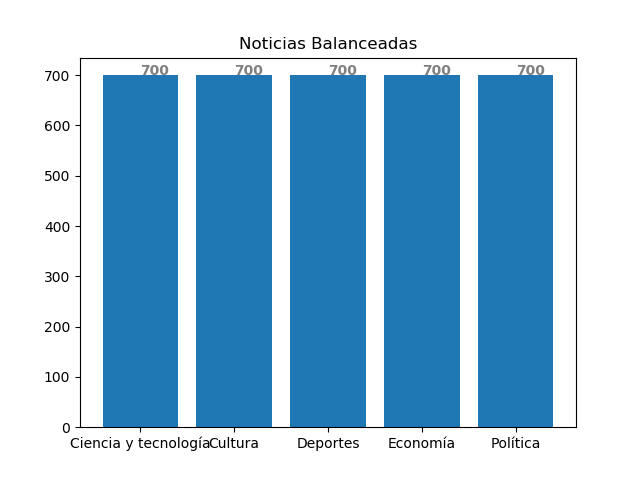
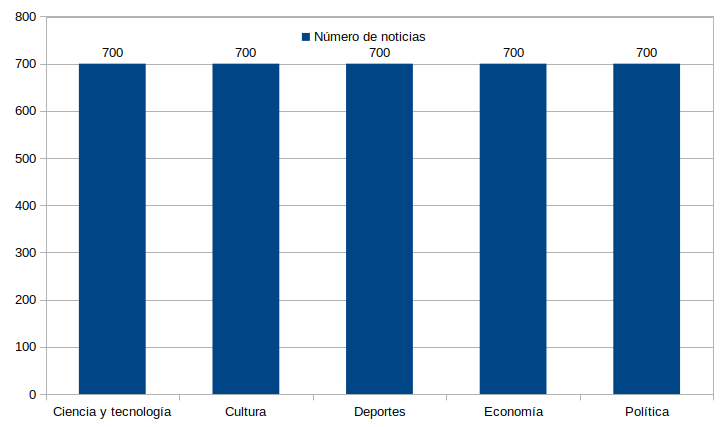
Correción de capítulos

diff --git a/Analisis/DocumentoAnalisis/Capitulos/Capitulo5-ImplementacionPruebas/1.Proceso-Recoleccion.tex b/Analisis/DocumentoAnalisis/Capitulos/Capitulo5-ImplementacionPruebas/1.Proceso-Recoleccion.tex
@@ -12,20 +12,39 @@ El proceso de recolección es parte fundamental del presente trabajo terminal, y
 \end{figure}
 
 \subsection{Selección de sitios web}
-
-El sitio web El Economista\footnote{https://www.eleconomista.com.mx/} contiene una sección llamada 
-\textbf{Ranking de Medios Nativos Digitales}\footnote{https://www.eleconomista.com.mx/Ranking-de-Medios-Nativos-Digitales}, el cual muestra las estadísticas que realiza mes con mes acerca de los sitios de noticias web más consultados como se muestra en la Figura \ref{fig:rank}\\
+\Tlabel{cp5:sitiosWeb}
+\textit{Reuters Institute}\footnote{https://reutersinstitute.politics.ox.ac.uk/} realizó un informe anual para el comprender como se consumen las noticias en distintos países, mediante el sitio \textit{YouGov}\footnote{https://mx.yougov.com/} se realizó la investigación utilizando cuestionarios en línea durante finales de enero y principios de febrero del año 2019. El informe reporto el índice de confianza que tienen los usuarios sobre los sitios noticiosos, la Figura \ref{fig:nivConfianza} muestra los sitios que tienen un mayor índice de confianza en una escala de 0 a 10.  
 
 \begin{figure}[H]
   \centering
-  \includegraphics[scale=.32]{imagenes/Capitulo5/ranking.png}
+  \includegraphics[scale=.35]{imagenes/Capitulo5/nivelConfianza.png}
+  \caption{Nivel de confianza de usuarios al consultar un sitio web.}
+  \label{fig:nivConfianza}
+\end{figure}
+
+El sitio web El Economista\footnote{https://www.eleconomista.com.mx/} contiene una sección llamada \textbf{Ranking de Medios Nativos Digitales}\footnote{https://www.eleconomista.com.mx/Ranking-de-Medios-Nativos-Digitales}, el cual muestra las estadísticas que realiza mes con mes acerca de los sitios de noticias web más consultados como se muestra en la Figura \ref{fig:rank}\\
+
+\begin{figure}[H]
+  \centering
+  \includegraphics[scale=.28]{imagenes/Capitulo5/ranking.png}
   \caption{Ranking de sitios de noticias del periódo de enero del 2018 a enero del 2019.}
   \label{fig:rank}
 \end{figure}
 
+La compañía \textit{comScore}\footnote{https://www.comscore.com/} dedicada a proporcionar datos de marketing en Internet, en el año 2018 realizó un estudio en el cual indica los sitios web de noticias más visitados, los resultados se muestran en la Figura \ref{fig:comScore}
+
+\begin{figure}[H]
+  \centering
+  \includegraphics[scale=.28]{imagenes/Capitulo5/visitantesPorSitioComScore.png}
+  \caption{Visitantes únicos a sitios de noticias durante el año 2018.}
+  \label{fig:comScore}
+\end{figure}
+
 \Tlabel{c5:sitios}
-Con base en la Figura \ref{fig:rank} se han seleccionado los diarios Aristegui Noticias, El Economista, La Jornada, La Prensa, Proceso, Sopitas y TV Azteca para recolectar noticias. Los sitios organizan las noticias por secciones, lo cual permite una búsqueda más rápida de la información, la Tabla \textbf{\ref{tabla:sitios}}. muestra el análisis realizado a las secciones contenidas en los sitios seleccionados.
+Para llevar a cabo la selección de sitios web utilizados en el presente proyecto se realizó un análisis sobre aquellos que proveen de información noticiosa, entre los cuales se consideraron \textbf{foros de noticias}, \textbf{sitios de diarios} y \textbf{sitios de televisión}, en conjunto con las Figuras \textbf{\ref{fig:nivConfianza}}, \textbf{\ref{fig:comScore}}, \textbf{\ref{fig:rank}} se han seleccionado los sitios Aristegui Noticias, El Economista, La Jornada, La Prensa, Proceso, Sopitas y TV Azteca para recolectar noticias, ya que se desea obtener noticias de diversas fuentes de información, como lo son foros, blogs y sitios de televisoras.\\ 
+Una vez definidos los sitios,  observamos que clasifican las noticias por secciones, lo cual permite una búsqueda más rápida de la información, la Tabla \ref{tabla:sitiosW}. muestra el análisis realizado a las secciones contenidas en los sitios seleccionados.
 \\
+
 \begin{table}[H]
     \centering
     \resizebox{\columnwidth}{!}{%
@@ -102,15 +121,27 @@ Con base en la Figura \ref{fig:rank} se han seleccionado los diarios Aristegui N
     \end{tabular}%
 }
 \caption[Secciones de los sitios web]{Secciones existentes en los sitios web}
-\label{tabla:sitios}
+\label{tabla:sitiosW}
 \end{table}
+
+Una vez que se analizarón las secciones con las que contaba cada sitio, se procedió a homologar las secciones en las cuales la mayoría de los sitios coincidian, por lo cual se quedarón definidas 5 secciones para clasificación de las noticias:
+
+\begin{itemize}
+    \item Política
+    \item Deportes
+    \item Ciencia y tecnología
+    \item Economía
+    \item Cultura
+\end{itemize}
+
+Cabe mencionar que hay muy pocos sitios que publican noticias de la sección \textbf{Ciencia y tecnología} y \textbf{Cultura}, por ello se consideraron éstas secciones.
 
 %------------------------------------------- Listo
 \subsection{Análisis de sitios web}
 
-Una vez definida la información requerida de cada noticia se realizó un análisis sobre la estructura XML (\textit{Extensible Markup Language}), por sus siglas en inglés, con el fin de realizar expresiones \textit{XPath} que permiten recorrer y procesar un documento XML, dado que cada sitio web cuenta con una estructura diferente, ha sido necesario realizar el análisis individual. Cabe mencionar que existen sitios los cuales realizan actualizaciones a su página, por esta razón cada dos meses se analizaban, con el fin de verificar que la estructura XML no cambiara.\\
+Una vez definida la información requerida de cada noticia se realizó un análisis sobre la estructura \textbf{XML} (\textit{Extensible Markup Language}, por sus siglas en inglés), con el fin de realizar expresiones \textit{XPath} que permiten recorrer y procesar un documento XML, dado que cada sitio web cuenta con una estructura diferente, ha sido necesario realizar el análisis individual. Cabe mencionar que existen sitios los cuales realizan actualizaciones a su página, por esta razón cada dos meses se analizaban, con el fin de verificar que la estructura XML no cambiara.\\
 
-Una expresión \textit{XPath} de ruta permite buscar y seleccionar los distintos nodos de un documento XML(ver). En el siguiente Cuadro \ref{box:xmlEjemplo} se muestra un ejemplo con los elementos de una nota, los cuales son: \textbf{para}, \textbf{de}, \textbf{titulo}, \textbf{texto}, en un documento XML estos son los nodos que conforman una nota.\\
+Una expresión \textit{XPath} de ruta permite buscar y seleccionar los distintos nodos de un documento XML. En el siguiente Cuadro \ref{box:xmlEjemplo} se muestra un ejemplo con los elementos de una nota, los cuales son: \textbf{para}, \textbf{de}, \textbf{titulo}, \textbf{texto}, en un documento XML estos son los nodos que conforman una nota.\\
 
 \begin{mygraybox}[label={box:xmlEjemplo}]{Documento XML}
 \begin{tabbing}
@@ -134,7 +165,7 @@ Para cada sitio web se crearon expresiones \textit{XPath} para recolectar el con
 %------------------------------------------- Listo
 \subsection{Creación de recolector}
 
-Como se explicó en el capítulo 3 (ver\ref{c3:Crawler}) un \textit{Crawler} te permite descargar información de una página web, como se muestra en la Figura \ref{Fig:recoleccion}. La implementación en el trabajo terminal ha requerido diseñar 7 recolectores, uno por cada sitio web (ver \Tref{c5:sitios}{sitios web}). \\
+Como se explicó en el capítulo 3 (ver \Tref{c3:crawler}{Crawler}) un \textit{Crawler} permite descargar información de una página web, como se muestra en la Figura \ref{Fig:recoleccion}. La implementación en el trabajo terminal ha requerido diseñar 7 recolectores, uno por cada sitio web (ver \Tref{c5:sitios}{sitios web}). \\
 
 \begin{figure}[H]
 	\centering
@@ -144,14 +175,6 @@ Como se explicó en el capítulo 3 (ver\ref{c3:Crawler}) un \textit{Crawler} te 
 \end{figure}
 
 El desarrollo del presente trabajo terminal se ha realizado en sistema operativo \textit{Linux} en su distribución Ubuntu, paa realizar la creación de los recolectores se ha utilizado el lenguaje de programación \textbf{Python 3}\footnote{https://www.python.org/}, en conjunto con \textbf{Scrapy}\footnote{https://scrapy.org/}, Fsramework que permite la extracción de información de sitios web. 
-\\
-El siguiente Cuadro \ref{box:libIns}, muestra los comandos utilizados para instalar las librerías utilizadas.\\
-\begin{mygraybox}[label={box:libIns}]{Comandos para instalar librerías utilizadas}
-\begin{verbatim}
-$ sudo apt-get install python3.6
-$ pip install Scrapy
-\end{verbatim}
-\end{mygraybox}
 
 La información que ha sido recuperada de las noticias se muestra a continuación:
 \begin{itemize}
@@ -178,7 +201,7 @@ noticia = //div[@class="class_text"]/p/child::node()/text()
 \end{small}
 \end{mygraybox}
 
-Cabe destacar que las noticias recolectadas se almacenaron en un archivo CSV (ver\ref{}) con la estructura que se muestra en la Tabla \ref{tab:csv}, donde la primera fila (Encabezado) define los elementos de este archivo, además las filas consecuentes representan el contenido recolectado de cada noticia.\\
+Cabe destacar que las noticias recolectadas se almacenaron en un archivo \textbf{CSV} (\textit{comma separeted values}, por sus siglas en inglés), con la estructura que se muestra en la Tabla \ref{tab:csv}, donde la primera fila (Encabezado) define los elementos de este archivo, además las filas consecuentes representan el contenido recolectado de cada noticia.\\
 
 %\begin{mygraybox}[label={box:csv}]{Encabezado de un archivo CSV}
 \begin{table}[H]
@@ -201,25 +224,26 @@ url ejemplo 2& título ejemplo 2& autor ejemplo 2& fecha ejemplo 2& descripción
 
 \subsection{Recolección de noticias}
 
-Para el desarrollo de esta etapa, se recolectaron noticias de las secciones : \textbf{ciencia y tecnología}, \textbf{cultura}, \textbf{deportes}, \textbf{economía} y \textbf{política}, de los sitios web \textbf{Aristegui Noticias}, \textbf{El Economista}, \textbf{La Jornada}, \textbf{La Prensa}, \textbf{Proceso}, \textbf{Sopitas} y \textbf{TV Azteca}, durante el periodo de julio a septiembre cada cuatro días, con el fin de no tener noticias repetidas. El almacenamiento de las noticias se realizó en un directorio por sección, dentro de cada uno de estos se dividian las noticias recolectadas por sitio web. 
+Para el desarrollo de esta etapa, se recolectaron noticias de las secciones: \textbf{ciencia y tecnología}, \textbf{cultura}, \textbf{deportes}, \textbf{economía} y \textbf{política}, de los sitios web \textbf{Aristegui Noticias}, \textbf{El Economista}, \textbf{La Jornada}, \textbf{La Prensa}, \textbf{Proceso}, \textbf{Sopitas} y \textbf{TV Azteca}, durante el periodo de julio a septiembre del año 2019, cada cuatro días, con el fin de no tener noticias repetidas. El almacenamiento de las noticias se realizó en un directorio por sección, dentro de cada uno de estos se guaraban las noticias recolectadas por sitio web.
+
 \\
 
 Una vez finalizada la primera etapa de recolección, los resultados obtenidos por sección se muestran en la Figura  \ref{Fig:notseccionV1}.
 %Mencionar como nombre primer corte de recolección y poner numero de noticias
 \begin{figure}[H]
 	\centering
-	\includegraphics[scale=.6]{imagenes/Capitulo5/noticiasPorSeccionV1.png}
+	\includegraphics[scale=.35]{imagenes/Capitulo5/noticiasPorSeccionV1.png}
 	\caption{Noticias recolectadas durante el primer corte.}
 	\label{Fig:notseccionV1}
 \end{figure}
 
-Cabe destacar que el número de noticias recolectadas durante el primer corte, no se encontraba balanceado, por ello se decidió continuar con el proceso de recolección de noticias, con el fin de balancear el corpus.
+Cabe destacar que el número de noticias recolectadas durante el primer corte, no se encontraba balanceadas, esto es que el número de noticias por sección era distinto, por ello se decidió continuar con el proceso de recolección de noticias, con el fin de balancear el corpus.
 \\
 Una vez finalizada la segunda etapa de recolección el número de noticias se muestra en la Figura \ref{Fig:notseccion} 
 
 \begin{figure}[H]
 	\centering
-	\includegraphics[scale=.6]{imagenes/Capitulo5/noticiasPorSeccionV2.png}
+	\includegraphics[scale=.35]{imagenes/Capitulo5/noticiasPorSeccionV2.png}
 	\caption{Noticias recolectadas al finalizar el segundo corte.}
 	\label{Fig:notseccion}
 \end{figure}
@@ -228,13 +252,13 @@ Los resultados que obtuvimos por sitio web se muestran en la Figura \ref{Fig:not
 
 \begin{figure}[H]
 	\centering
-	\includegraphics[scale=.6]{imagenes/Capitulo5/noticiasPorSitio.png}
+	\includegraphics[scale=.35]{imagenes/Capitulo5/noticiasPorSitio.png}
 	\caption{Noticias recolectadas por sitio web al finalizar el segundo corte}
 	\label{Fig:notPorSit}
 \end{figure}
 
 
-Los noticias recuperadas por cada sitio web, se muestran en la siguiente Tabla \ref{tabla:sitios}.
+Los noticias recuperadas por cada sitio web, se muestran en la siguiente Tabla \ref{tabla:numNotic}.
 
 \begin{table}[H]
 \begin{tabular}{|l|l|l|}
@@ -280,11 +304,44 @@ Sitio                               & Sección              & Número de Noticia
 \label{tabla:numNotic}
 \end{table}
 
-Una vez concluida la recolección de noticias se procedió con eliminar aquellas noticias que hayan sido duplicadas, finalmente el número total de noticias por sección se muestra en la Figura \ref{fig:notBalanceadas}, obteniendo un total de 3,500 noticias.\\
+Una vez concluida la recolección de noticias, se eliminaron aquellas noticias que se encontraban más de una vez dentro de los archivos utilizando un listas en \textit{Python} en el cual se validaba la URL de la noticia no se encontrará en la lista; Cabe mencionar que existían noticias que contenían tuits en inglés se procedió con eliminar el texto que tuvieraen el idioma inglés, posteriormente se realizaron dos tareas fundamentales: \textbf{limpieza de texto} y \textbf{Filtro de longitud}. \\
+
+%----------------------------------%
+%\begin{large}
+\subsection{Limpieza de texto}
+%\end{large}
+
+Esta tarea consiste en eliminar texto que no brinda información útil para el entrenamiento como, hipertexto (ver), símbolos especiales (como \# $\dagger$ $\sqrt{ }$), \textit{emojis} (como \dSmiley \dCooley \dNinja). Por ejemplo el texto \ref{box:cp5:texto} muestra la redacción de una noticia con la información descargada de una pagina web. El resultado de limpiar la noticia se muestra en el texto \ref{box:cp5:limpio}. Se puede observar que se han eliminado los elementos $<p>\ </p>\ <!--\ -->$ \# $\dagger$ \dSmiley \dCooley \dInnocey.\\
+
+Para realizar esta tarea se han ocupando las librerías; \textbf{pandas} como medio de lectura de archivos tipo \textbf{CSV} (\textit{comma separeted values}, por sus siglas en ingles); \textbf{re} la cual permite evaluar expresiones regulares con el objetivo de eliminar símbolos; \textbf{demoji} quien permite eliminar \textit{emojis} dentro del texto.\\
+
+\begin{mygraybox}[label={box:cp5:texto}]{Texto de entrada} 
+$<p>\dagger$$\ \ \ $ El número 343 de El Trimestre Económico,$\otimes$ revista emblemática del Fondo de Cultura 
+$<!--\ -->$
+Económica (FCE), será * * * presentado por David Ibarra Muñoz \dSmiley , Carlos Tello Macías \dCooley , Alicia Puyana \dInnocey y Pablo Ruiz Nápoles el martes 27 de agosto a las 6 de la tarde, en la librería Rosario Castellanos, ubicada en avenida Tamaulipas \# 202, en la colonia Condesa de la capital mexicana.$</p>$
+\end{mygraybox}
+
+\ \\
+
+\begin{mygraybox}[label={box:cp5:limpio}]{Texto limpio} 
+El número 343 de El Trimestre Económico, revista emblemática del Fondo de Cultura 
+Económica (FCE), será presentado por David Ibarra Muñoz, Carlos Tello Macías , Alicia Puyana y Pablo Ruiz Nápoles el martes 27 de agosto a las 6 de la tarde, en la librería Rosario Castellanos, ubicada en avenida Tamaulipas 202, en la colonia Condesa de la capital mexicana.
+\end{mygraybox}
+\ \\
+
+%----------------------------------%
+%\begin{large}
+\subsection{Filtro de longitud}
+%\end{large}
+
+Con base en la regla de negocio \RNref{RN1}{Número de palabras} se ha definido 180 palabras como longitud mínima de las noticias, incluyendo en la definición de palabra números, signos de puntuación y exclamación.
+Para esto después de haber concluido el proceso de limpieza se pregunta por la longitud de la cadena (sin contar los espacios) y si esta es mayor o igual a 180, entonces es un artículo válido para utilizar en el entrenamiento de lo contrario no es tomado en cuenta.\\
+
+Una vez concluidas estas tareas, el número de noticias por sección se encontraba más cercano, por ello se definió el número de noticias por sección, el cual sería de 700, dado que algunas secciones les faltaban pocas noticias para cumplir este número, se recolectaron las noticias faltantes, las noticias debían pasar por el proceso de limpieza y cumplir por el filtro de longitud, finalmente el número total de noticias por sección se muestra en la Figura \ref{fig:notBalanceadas}, obteniendo un total de 3,500 noticias.\\
 
 \begin{figure}[H]
 	\centering
-	\includegraphics[scale=.70]{imagenes/Capitulo5/noticiasBalanceadas.png}
-	\caption{Noticias balanceadas por sección}
+	\includegraphics[scale=.45]{imagenes/Capitulo5/noticiasBalanceadas.png}
+	\caption{Noticias por sección}
 	\label{fig:notBalanceadas}
 \end{figure}

diff --git a/Analisis/DocumentoAnalisis/Capitulos/Capitulo5-ImplementacionPruebas/3.Proceso-ApplicacionWeb.tex b/Analisis/DocumentoAnalisis/Capitulos/Capitulo5-ImplementacionPruebas/3.Proceso-ApplicacionWeb.tex
@@ -1,6 +1,6 @@
 \section{Aplicación web}
 
-Como se muestra en la Figura \ref{fig:procesoAppWeb}, la aplicación web desarrollada consta de 7 etapas, este proceso se llevará a cabo la primera vez que se seleccione una sección o en el caso de que hayan transucurrido 4 horas de la última vez que se utilizó el sistema.
+Como se muestra en la Figura \ref{fig:procesoAppWeb}, la aplicación web desarrollada consta de 6 etapas, este proceso se llevará a cabo la primera vez que se seleccione una sección o en el caso de que hayan transucurrido 4 horas de la última vez que se utilizó el sistema.
 \\
 
 \begin{figure}[H]
@@ -11,25 +11,25 @@ Como se muestra en la Figura \ref{fig:procesoAppWeb}, la aplicación web desarro
 \end{figure}
 
 \subsubsection{Selección de sección}
-El usuario tendrá que elegir una sección (Cultura, Deportes, Economía, Política o Ciencia y Tecnología). 
+El usuario tendrá que elegir una sección (\textbf{Cultura}, \textbf{Deportes}, \textbf{Economía}, \textbf{Ciencia y Tecnología} y \textbf{Política}). 
 \\
 
 \subsubsection{Recolección de noticias}
-Una vez seleccionada la sección, se procede con la recolección de noticias de los sitios web previamente definidos, la información que se descargará de cada noticia será la siguiente:
+Una vez seleccionada la sección, se procede con la recolección de noticias de los sitios web previamente definidos (ver \Tref{cp5:sitiosWeb}{sitios web}), la información que se descargará de cada noticia será la siguiente:
 
 \begin{itemize}
-	\item URL de la noticia
-	\item Título
-	\item Fecha
-	\item Autor
-	\item Descripción \footnote{Existen sitios web, donde las noticias cuentan con una descripción}
-	\item Noticia
+	\item \textbf{URL de la noticia}
+	\item \textbf{Título}
+	\item \textbf{Fecha}
+	\item \textbf{Autor}
+	\item \textbf{Descripción} (Existen sitios web, donde las noticias cuentan con una descripción)
+	\item \textbf{Noticia}
 \end{itemize}
 
 No será necesario extraer el nombre de la sección a la cual pertenece la noticia.\\
 
 \subsubsection{Tokenización / lematización}
-Una vez que el contenido de las noticias, pasan por la etapa de tokenización, la cual consiste en separar el texto en sus elementos mínimos, posteriormente se procese con la lematización del texto, proceso que reduce cada una de las palabras tokenizadas en lemas.
+Una vez que se recolecta el contenido de las noticias, se pasa por la etapa de tokenización (ver \Tref{cp5:tokenizacion}{tokenización}), la cual consiste en separar el texto en sus elementos mínimos, posteriormente se lematiza (ver \Tref{cp5:lematizacion}{lematización}) el texto, proceso que reduce cada una de las palabras tokenizadas en lemas.
 
 
 \subsubsection{Extracción de características}
@@ -39,11 +39,12 @@ Finalizado el proceso de tokenización y lematización, se procede con la etapa 
 Una vez que se han obtenido las características de cada una de las noticias, se realizá la clasificación de las noticias, estas noticias se guardarán en un archivo, cabe destacar que cada sección contendrá su propio archivo, con el fin de mejorar el tiempo de visualización de los resultados.
 
 \subsubsection{Visualización de resultados}
-El usuario podrá visualizar las noticias extraídas y clasificadas de la sección que seleccione, 
+El usuario podrá visualizar las noticias extraídas y clasificadas de la sección que seleccione.
+Una vez que se haya realizado la recolección de noticias
 
 \subsection{Vistas de la aplicación web}
 
-El sistema cuenta con 5 secciones Deportes, Economía, Política, Cultura y Ciencia y tecnología, el usuario podrá elegir de alguna de estas secciones, se debe considerar que los sitios web de los cuales serán recolectadas las noticias, han sido definidos en el caítulo 5.1.\\
+El sistema cuenta con 5 secciones \textbf{Deportes}, \textbf{Economía}, \textbf{Política}, \textbf{Ciencia y tecnología} y \textbf{Cultura}, el usuario podrá elegir de alguna de estas secciones, se debe considerar que los sitios web de los cuales serán recolectadas las noticias, han sido definidos en el capítulo 5.1.\\
 La Figura \ref{fig:PantallaInicio} muestra la vista que tendrá el usuario al ingresar a la aplicación web
 \\
 \begin{figure}[H]

diff --git a/Analisis/DocumentoAnalisis/Capitulos/Capitulo5-ImplementacionPruebas/2.Proceso-Entrenamiento.tex b/Analisis/DocumentoAnalisis/Capitulos/Capitulo5-ImplementacionPruebas/2.Proceso-Entrenamiento.tex
@@ -61,7 +61,7 @@ Para esto después de haber concluido el proceso de limpieza se pregunta por la 
 %\begin{large}
 \subsubsection{Tokenizar}
 %\end{large}
-
+\Tlabel{cp5:tokenizacion}
 La etapa de tokenización consiste en separar el texto en sus elementos mínimos llamados tokens, donde se separan palabras, signos de puntuación, llaves y números mediante un espacio. Continuando con el ejemplo \ref{box:cp5:limpio} donde el texto se encuentra limpio, se procede a su tokenización. El resultado es mostrado en el Cuadro \ref{box:cp5:tokenizar}. Para remarcar el ejemplo observe la palabra entre paréntesis \textbf{(FCE)} la cual es separada en \textbf{( FCE )} mostrando que ahora cada elemento representa un token individual. Para el desarrollo de esta tarea se utilizó la librería \textbf{RegexpTokenizer}.\\
 
 \begin{mygraybox}[label={box:cp5:tokenizar}]{Texto tokenizado} 
@@ -73,7 +73,7 @@ Económica ( FCE ) , será presentado por David Ibarra Muñoz , Carlos Tello Mac
 %\begin{large}
 \subsubsection{Lematizar}
 %\end{large}
-
+\Tlabel{cp5:lematizacion}
 Lematizar es el proceso de reducir cada palabra a su lema, con el fin de disminuir la dispersión en el texto, por ejemplo las palabras correrás, corriendo, corrí, tienen como lema el verbo correr, el plural niños tiene como lema niño (ver \Tref{cp3:lematizacion}{Lematización}). Para realizar esta tarea se ha usado \textbf{spacy} el cual es una librería de código abierto, con el diccionario \textit{es\_core\_news\_sm} quien permite analizar el léxico del lenguaje español.\\
 
 Siguiendo con las etapas del proceso se toma el texto \ref{box:cp5:tokenizar} como entrada al programa y este da como salida el texto que se muestra en el Cuadro \ref{box:cp5:lematizado}.\\

diff --git a/Analisis/DocumentoAnalisis/Capitulos/Capitulo3-MarcoTeorico/S2-RecoleccionDeInformacion.tex b/Analisis/DocumentoAnalisis/Capitulos/Capitulo3-MarcoTeorico/S2-RecoleccionDeInformacion.tex
@@ -50,7 +50,7 @@ La Figura \textbf{\ref{fig:procesos}} muestra los procesos.
 %--------------------------------Crawler---------------------------------------------%
 
 \section{Crawler}
-
+\Tlabel{c3:crawler}
 Un \textit{Crawler}  es una herramienta la cual analiza sitios web, permitiendo recolectar 
 las páginas web para así posteriormente extraer la información que contengan \citep{CTCrawler}. Un crawler también 
 conocido como como robot o spider, es un sistema para la descarga masiva de páginas web. Son uno de 
